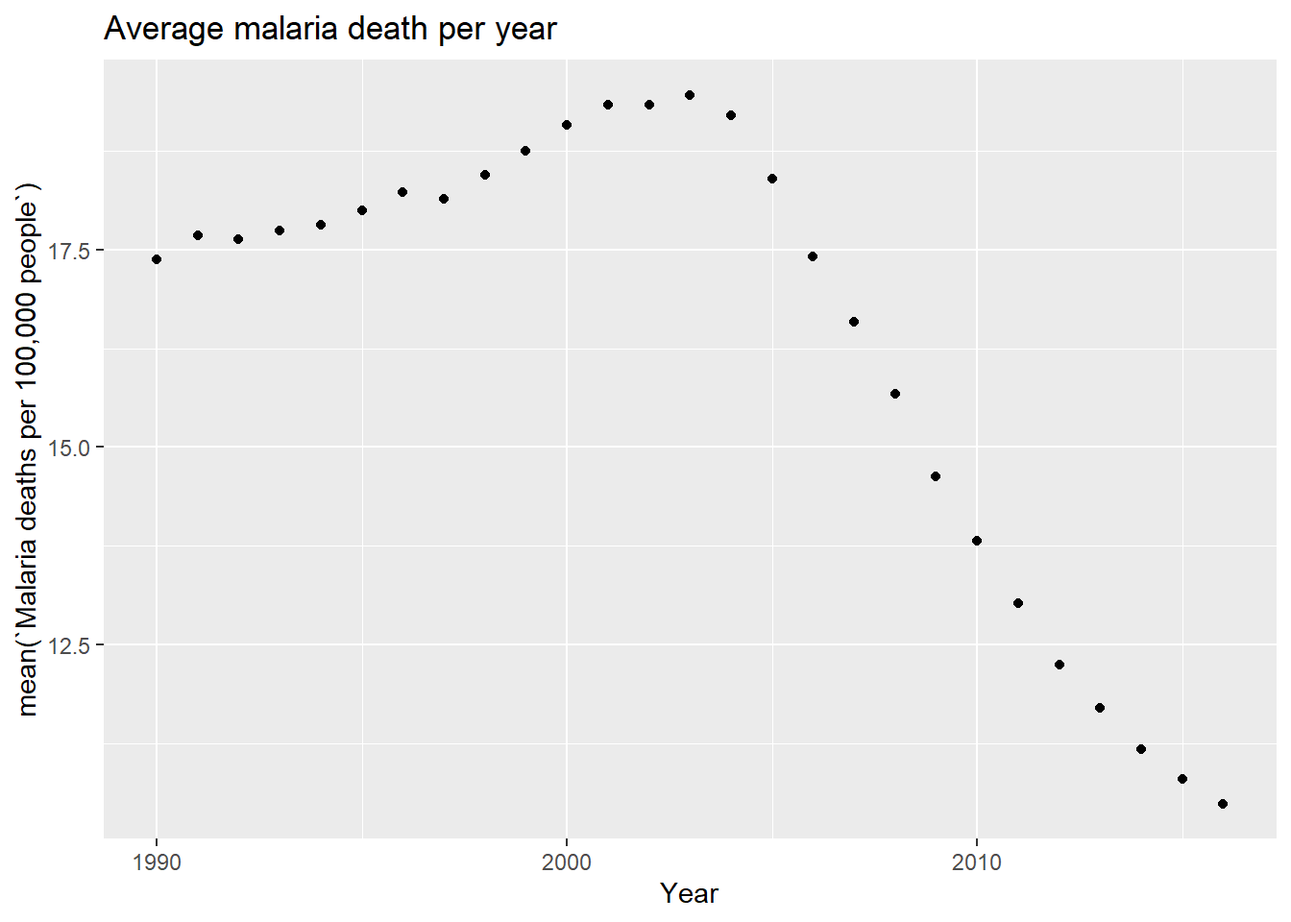
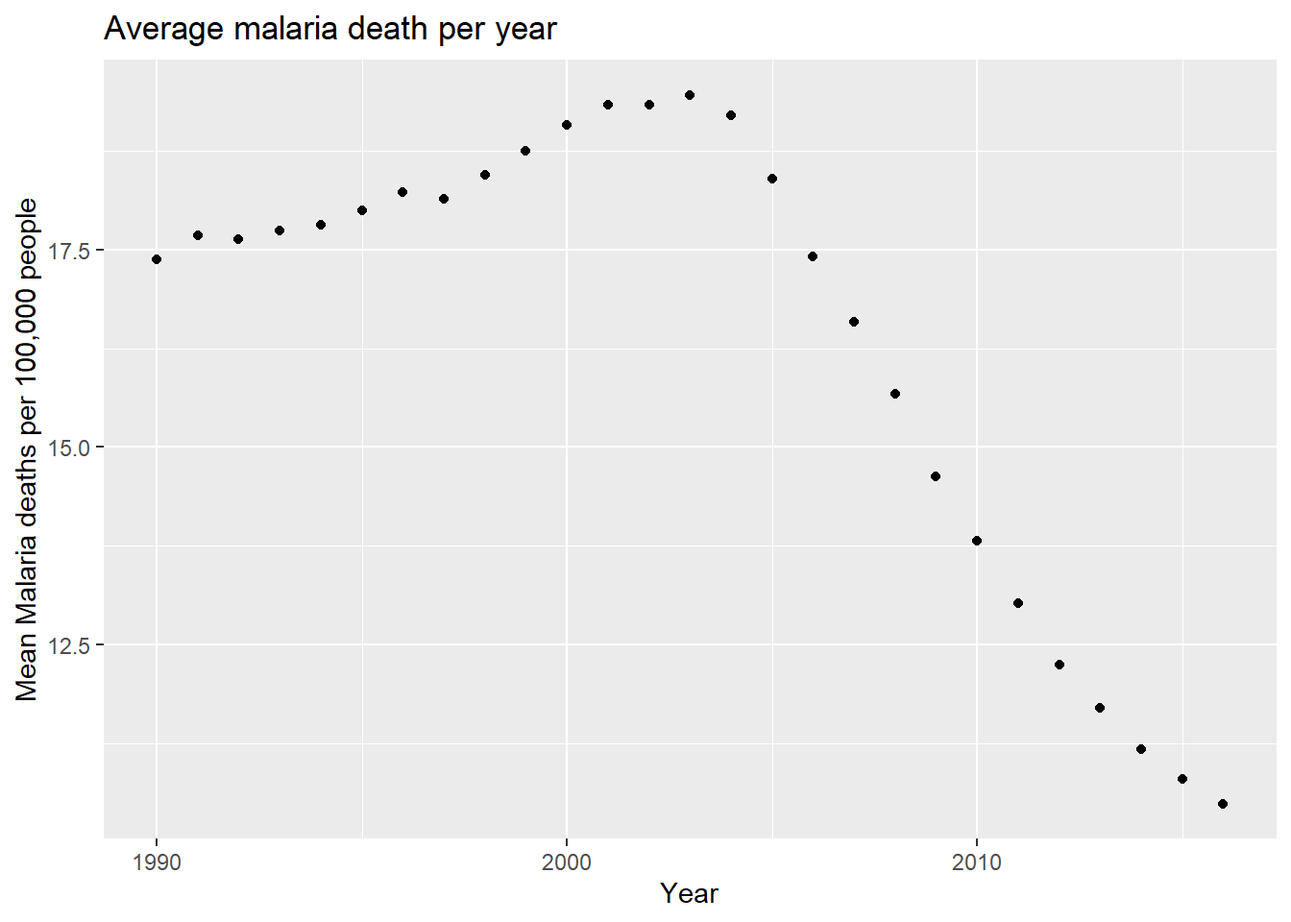
almost done draft. waiting on troubleshooting last lm().

Changed region(s): [[0.0, 0.1875, 0.0312, 0.7812]]

diff --git a/malaria comb data.html b/malaria comb data.html
@@ -161,27 +161,27 @@ dbl (2): Year, Value
 <span id="cb11-2"><a href="#cb11-2" aria-hidden="true" tabindex="-1"></a><span class="fu">colnames</span>(gdp)[<span class="dv">2</span>] <span class="ot">=</span> <span class="st">"Code"</span></span>
 <span id="cb11-3"><a href="#cb11-3" aria-hidden="true" tabindex="-1"></a><span class="fu">colnames</span>(gdp)[<span class="dv">4</span>] <span class="ot">=</span> <span class="st">"GDP"</span></span></code><button title="Copy to Clipboard" class="code-copy-button"><i class="bi"></i></button></pre></div>
 </div>
-<p>renamed colums to join properly with mix_mal</p>
+<p>renamed columns to join properly with mix_mal</p>
 <div class="cell">
 <div class="sourceCode cell-code" id="cb12"><pre class="sourceCode r code-with-copy"><code class="sourceCode r"><span id="cb12-1"><a href="#cb12-1" aria-hidden="true" tabindex="-1"></a>mal_gdp <span class="ot">&lt;-</span> mix_mal <span class="sc">%&gt;%</span> <span class="fu">left_join</span>(gdp)</span></code><button title="Copy to Clipboard" class="code-copy-button"><i class="bi"></i></button></pre></div>
 <div class="cell-output cell-output-stderr">
 <pre><code>Joining with `by = join_by(Entity, Code, Year)`</code></pre>
 </div>
 </div>
-<p>fully joined data set with case, deaths and gdp by country and year.</p>
+<p>fully joined data set with case, deaths and GDP by country and year.</p>
 <div class="cell">
 <div class="sourceCode cell-code" id="cb14"><pre class="sourceCode r code-with-copy"><code class="sourceCode r"><span id="cb14-1"><a href="#cb14-1" aria-hidden="true" tabindex="-1"></a><span class="fu">colnames</span>(mal_gdp)[<span class="dv">4</span>] <span class="ot">=</span><span class="st">"Malaria deaths per 100,000 people"</span></span>
 <span id="cb14-2"><a href="#cb14-2" aria-hidden="true" tabindex="-1"></a><span class="fu">colnames</span>(mal_gdp)[<span class="dv">5</span>] <span class="ot">=</span> <span class="st">"Malaria cases per 1,000 at risk people"</span></span></code><button title="Copy to Clipboard" class="code-copy-button"><i class="bi"></i></button></pre></div>
 </div>
 <section id="abstract" class="level2">
 <h2 class="anchored" data-anchor-id="abstract">Abstract</h2>
-<p>This project looks at Malaria rates in the context of countries, years and gross domestic product(GDP).</p>
+<p>This project looks at Malaria rates in the context of countries, years and gross domestic product (GDP). Malaria has been the cause of many deaths over human history and in the modern era it should be preventable. Through this data, conclusions about how GDP effects malaria deaths will be drawn.</p>
 </section>
 <section id="introduction" class="level2">
 <h2 class="anchored" data-anchor-id="introduction">Introduction</h2>
-<p>Malaria is a parasitic desease that is caused by members of the plasmodium genus. Plasmodium uses misquitos as an infection vector that passes to humans when the misquito feeds. Once it enter a human it will multiply in the liver before being released into the blood. When a new misquito bites an infected human it will become infected and the cycle will continue.</p>
-<p>Malaria can present as simple as a fever and headache all the way to confusion, seizures, and difficulty breathing. It is both preventable and curable. Most commonly found in tropical enviroment the WHO reports that 94% of cases are in the african region. Like most deseases children and the elderly are most vunerable to malaria.</p>
-<p>The data in this analysis comes from three sources. Both Malaria incedences and deaths comes from the Malaria Atlas Project(MAP). The MAP is an Oxford founded orginasation that works closly with the WHO to provide data analysis on Malaria. The Malaria deaths data set has a large number of contries over the period of about 25 years. The Malaria incedence data set has the same countries but only looks a handful of years. The final data set is GDPs from countries around the world as reported by the World Bank. The World Bank is a group of international orginizations that release a wide varity of economic data.</p>
+<p>Malaria is a parasitic disease that is caused by members of the plasmodium genus. Plasmodium uses mosquito as an infection vector that passes to humans when the mosquito feeds. Once it enters a human, it will multiply in the liver before being released into the blood. When a new mosquito bites an infected human, it will become infected and the cycle will continue.</p>
+<p>Malaria can present as simple as a fever and headache all the way to confusion, seizures, and difficulty breathing. It is both preventable and curable. Most commonly found in tropical environment, the WHO reports that 94% of cases are in the African region. Like most diseases, children and the elderly are most vulnerable to malaria.</p>
+<p>The data in this analysis comes from three sources. Both Malaria incidences and deaths comes from the Malaria Atlas Project(MAP). The MAP is an Oxford founded organization that works closely with the WHO to provide data analysis on Malaria. The Malaria deaths data set has a large number of countries over the period of about 25 years. The Malaria incidence data set has the same countries but only looks a handful of years. The final data set is GDPs from countries around the world as reported by the World Bank. The World Bank is a group of international organizations that release a wide variety of economic data.</p>
 </section>
 <section id="exploration" class="level2">
 <h2 class="anchored" data-anchor-id="exploration">Exploration</h2>
@@ -206,7 +206,7 @@ dbl (2): Year, Value
 ✖ dplyr::lag()      masks stats::lag()
 ✖ yardstick::spec() masks readr::spec()
 ✖ recipes::step()   masks stats::step()
-• Search for functions across packages at https://www.tidymodels.org/find/</code></pre>
+• Learn how to get started at https://www.tidymodels.org/start/</code></pre>
 </div>
 <div class="sourceCode cell-code" id="cb19"><pre class="sourceCode r code-with-copy"><code class="sourceCode r"><span id="cb19-1"><a href="#cb19-1" aria-hidden="true" tabindex="-1"></a>my_data_splits <span class="ot">&lt;-</span> <span class="fu">initial_split</span>(mal_gdp, <span class="at">prop =</span> <span class="fl">0.5</span>)</span>
 <span id="cb19-2"><a href="#cb19-2" aria-hidden="true" tabindex="-1"></a></span>
@@ -235,15 +235,15 @@ dbl (2): Year, Value
 </div>
 </div>
 </div>
-<p>This graph shows the average malaria deaths per year from the exploritory data. It apears that the peak for deaths is around 2002. The graph apears to be trending down however it is dificult to say for sure with just the graph.</p>
-<p>What is the relationship between gdp and malaria deaths?</p>
+<p>This graph shows the average malaria deaths per year from the exploratory data. It appears that the peak for deaths is around 2002. The graph appears to be trending down however it is difficult to say for sure with just the graph.</p>
+<p>What is the relationship between GDP and malaria deaths?</p>
 <div class="cell">
 <div class="sourceCode cell-code" id="cb21"><pre class="sourceCode r code-with-copy"><code class="sourceCode r"><span id="cb21-1"><a href="#cb21-1" aria-hidden="true" tabindex="-1"></a>exploratory_data<span class="sc">%&gt;%</span></span>
 <span id="cb21-2"><a href="#cb21-2" aria-hidden="true" tabindex="-1"></a>  <span class="fu">ggplot</span>()<span class="sc">+</span></span>
 <span id="cb21-3"><a href="#cb21-3" aria-hidden="true" tabindex="-1"></a>  <span class="fu">geom_point</span>(<span class="at">mapping =</span> <span class="fu">aes</span>(<span class="at">y=</span> <span class="st">`</span><span class="at">Malaria deaths per 100,000 people</span><span class="st">`</span>, <span class="at">x =</span> GDP))<span class="sc">+</span></span>
 <span id="cb21-4"><a href="#cb21-4" aria-hidden="true" tabindex="-1"></a>  <span class="fu">scale_x_log10</span>()</span></code><button title="Copy to Clipboard" class="code-copy-button"><i class="bi"></i></button></pre></div>
 <div class="cell-output cell-output-stderr">
-<pre><code>Warning: Removed 882 rows containing missing values or values outside the scale range
+<pre><code>Warning: Removed 900 rows containing missing values or values outside the scale range
 (`geom_point()`).</code></pre>
 </div>
 <div class="cell-output-display">
@@ -254,15 +254,15 @@ dbl (2): Year, Value
 </div>
 </div>
 </div>
-<p>This graph shows malaria deaths and GDP. The x axis is scaled by log10 in order to show any definition. While it is difficult to make any conclusions based on this graph it does show that after 1e+11 GDP the odds of malaria deaths decreses signifigantly.</p>
-<p>Does gdp impact the relation between deaths and cases?</p>
+<p>This graph shows malaria deaths and GDP. The x axis is scaled by log10 in order to show any definition. While it is difficult to make any conclusions based on this graph, it does show that after 1e+11 GDP the odds of malaria deaths decreases significantly.</p>
+<p>Does GDP impact the relation between deaths and cases?</p>
 <div class="cell">
 <div class="sourceCode cell-code" id="cb23"><pre class="sourceCode r code-with-copy"><code class="sourceCode r"><span id="cb23-1"><a href="#cb23-1" aria-hidden="true" tabindex="-1"></a>exploratory_data<span class="sc">%&gt;%</span></span>
 <span id="cb23-2"><a href="#cb23-2" aria-hidden="true" tabindex="-1"></a>  <span class="fu">ggplot</span>()<span class="sc">+</span></span>
 <span id="cb23-3"><a href="#cb23-3" aria-hidden="true" tabindex="-1"></a>  <span class="fu">geom_point</span>(<span class="at">mapping =</span> <span class="fu">aes</span>(<span class="at">x=</span> GDP, <span class="at">y=</span> <span class="st">`</span><span class="at">Malaria cases per 1,000 at risk people</span><span class="st">`</span>))<span class="sc">+</span></span>
 <span id="cb23-4"><a href="#cb23-4" aria-hidden="true" tabindex="-1"></a>  <span class="fu">scale_x_log10</span>()</span></code><button title="Copy to Clipboard" class="code-copy-button"><i class="bi"></i></button></pre></div>
 <div class="cell-output cell-output-stderr">
-<pre><code>Warning: Removed 2921 rows containing missing values or values outside the scale range
+<pre><code>Warning: Removed 2910 rows containing missing values or values outside the scale range
 (`geom_point()`).</code></pre>
 </div>
 <div class="cell-output-display">
@@ -273,7 +273,7 @@ dbl (2): Year, Value
 </div>
 </div>
 </div>
-<p>This one shows the graph of cases by gdp with the same scale as previously.</p>
+<p>This one shows the graph of cases by GDP with the same scale as previously described.</p>
 <div class="cell">
 <div class="sourceCode cell-code" id="cb25"><pre class="sourceCode r code-with-copy"><code class="sourceCode r"><span id="cb25-1"><a href="#cb25-1" aria-hidden="true" tabindex="-1"></a>exploratory_data<span class="sc">%&gt;%</span></span>
 <span id="cb25-2"><a href="#cb25-2" aria-hidden="true" tabindex="-1"></a>  <span class="fu">mutate</span>(<span class="at">death_scaled =</span> <span class="st">`</span><span class="at">Malaria deaths per 100,000 people</span><span class="st">`</span><span class="sc">*</span><span class="dv">100</span>) <span class="sc">%&gt;%</span></span>
@@ -283,11 +283,11 @@ dbl (2): Year, Value
 <span id="cb25-6"><a href="#cb25-6" aria-hidden="true" tabindex="-1"></a>  <span class="fu">geom_point</span>(<span class="at">mapping =</span> <span class="fu">aes</span>(<span class="at">x=</span> GDP, <span class="at">y=</span> <span class="st">`</span><span class="at">Malaria cases per 1,000 at risk people</span><span class="st">`</span>), <span class="at">color =</span> <span class="st">"red"</span>)<span class="sc">+</span></span>
 <span id="cb25-7"><a href="#cb25-7" aria-hidden="true" tabindex="-1"></a>  <span class="fu">scale_x_log10</span>()</span></code><button title="Copy to Clipboard" class="code-copy-button"><i class="bi"></i></button></pre></div>
 <div class="cell-output cell-output-stderr">
-<pre><code>Warning: Removed 882 rows containing missing values or values outside the scale range
+<pre><code>Warning: Removed 900 rows containing missing values or values outside the scale range
 (`geom_point()`).</code></pre>
 </div>
 <div class="cell-output cell-output-stderr">
-<pre><code>Warning: Removed 2921 rows containing missing values or values outside the scale range
+<pre><code>Warning: Removed 2910 rows containing missing values or values outside the scale range
 (`geom_point()`).</code></pre>
 </div>
 <div class="cell-output-display">
@@ -305,6 +305,7 @@ dbl (2): Year, Value
 <p>Cases and deaths of malaria will decrease on average over the years. Earlier years will have the most cases and deaths of malaria. As the GDP increases the deaths and cases will decrease. As GDP increases the deaths to cases ratio will decrease.</p>
 <section id="methodology" class="level3">
 <h3 class="anchored" data-anchor-id="methodology">Methodology</h3>
+<p>This section will take a more in depth look at the questions and hypotheses using the full data set. As most of these questions are about relations between variables, I will be using linear regressions in order to make conclusions about the relationships. This should be effective because most of the hypothesized questions should have a negative relation between variables seeing as we know that the threat of malaria has decreased over the years.</p>
 <p>How do malaria deaths change over time? What year had the highest death rate of malaria?</p>
 <div class="cell">
 <div class="sourceCode cell-code" id="cb28"><pre class="sourceCode r code-with-copy"><code class="sourceCode r"><span id="cb28-1"><a href="#cb28-1" aria-hidden="true" tabindex="-1"></a>death_mean <span class="ot">&lt;-</span> mal_gdp<span class="sc">%&gt;%</span></span>
@@ -316,7 +317,8 @@ dbl (2): Year, Value
 <span id="cb28-7"><a href="#cb28-7" aria-hidden="true" tabindex="-1"></a>death_mean<span class="sc">%&gt;%</span></span>
 <span id="cb28-8"><a href="#cb28-8" aria-hidden="true" tabindex="-1"></a>  <span class="fu">ggplot</span>()<span class="sc">+</span></span>
 <span id="cb28-9"><a href="#cb28-9" aria-hidden="true" tabindex="-1"></a>  <span class="fu">geom_point</span>(<span class="at">mapping =</span> <span class="fu">aes</span>(<span class="at">x=</span> Year, <span class="at">y =</span> <span class="st">`</span><span class="at">mean(\</span><span class="st">`</span>Malaria deaths per <span class="dv">100</span>,<span class="dv">000</span> people\<span class="st">`</span><span class="at">)</span><span class="st">`</span>))<span class="sc">+</span></span>
-<span id="cb28-10"><a href="#cb28-10" aria-hidden="true" tabindex="-1"></a>  <span class="fu">labs</span>(<span class="at">title =</span> <span class="st">"Average malaria death per year"</span>)</span></code><button title="Copy to Clipboard" class="code-copy-button"><i class="bi"></i></button></pre></div>
+<span id="cb28-10"><a href="#cb28-10" aria-hidden="true" tabindex="-1"></a>  <span class="fu">labs</span>(<span class="at">title =</span> <span class="st">"Average malaria death per year"</span>)<span class="sc">+</span></span>
+<span id="cb28-11"><a href="#cb28-11" aria-hidden="true" tabindex="-1"></a>  <span class="fu">ylab</span>(<span class="st">"Mean Malaria deaths per 100,000 people"</span>)</span></code><button title="Copy to Clipboard" class="code-copy-button"><i class="bi"></i></button></pre></div>
 <div class="cell-output-display">
 <div>
 <figure class="figure">
@@ -325,16 +327,25 @@ dbl (2): Year, Value
 </div>
 </div>
 </div>
-<p>This graph show the average malaria deaths world wide per year. It shows a very clear trend of decreaseing around 2003. Acording to (Cibulskis et al) this roughly coincides to a global increase in anti malaria funding. This funding resulted in pestices and treatments being used in areas with high malaria rates that could not afford previously. The WHO was at the fore front of this effort and contitue their work to this day.</p>
-<p>What is the relationship between gdp and malaria deaths?</p>
+<p>This graph shows the average malaria deaths world wide per year. It shows a very clear trend of decreasing beginning around 2003. According to Cibulskis et al, this roughly coincides to a global increase in anti malaria funding. This funding resulted in pesticides and treatments being used in areas with high malaria rates that could not afford previously. The WHO was at the fore front of this effort and continue their work to this day. It also shows that malaria deaths were on the rise until 2003 which is contrary to what I would expect.</p>
+<p>What is the relationship between GDP and malaria deaths?</p>
 <div class="cell">
 <div class="sourceCode cell-code" id="cb29"><pre class="sourceCode r code-with-copy"><code class="sourceCode r"><span id="cb29-1"><a href="#cb29-1" aria-hidden="true" tabindex="-1"></a>mal_gdp<span class="sc">%&gt;%</span></span>
-<span id="cb29-2"><a href="#cb29-2" aria-hidden="true" tabindex="-1"></a>  <span class="fu">filter</span>(<span class="st">`</span><span class="at">Malaria deaths per 100,000 people</span><span class="st">`</span> <span class="sc">&gt;</span> <span class="dv">1</span>) <span class="sc">%&gt;%</span></span>
+<span id="cb29-2"><a href="#cb29-2" aria-hidden="true" tabindex="-1"></a> <span class="co"># filter(`Malaria deaths per 100,000 people` &gt; 1) %&gt;%</span></span>
 <span id="cb29-3"><a href="#cb29-3" aria-hidden="true" tabindex="-1"></a>  <span class="fu">ggplot</span>()<span class="sc">+</span></span>
 <span id="cb29-4"><a href="#cb29-4" aria-hidden="true" tabindex="-1"></a>  <span class="fu">geom_point</span>(<span class="at">mapping =</span> <span class="fu">aes</span>(<span class="at">y=</span> <span class="st">`</span><span class="at">Malaria deaths per 100,000 people</span><span class="st">`</span>, <span class="at">x =</span> GDP))<span class="sc">+</span></span>
-<span id="cb29-5"><a href="#cb29-5" aria-hidden="true" tabindex="-1"></a>  <span class="fu">scale_x_log10</span>()</span></code><button title="Copy to Clipboard" class="code-copy-button"><i class="bi"></i></button></pre></div>
+<span id="cb29-5"><a href="#cb29-5" aria-hidden="true" tabindex="-1"></a>  <span class="fu">scale_x_log10</span>()<span class="sc">+</span></span>
+<span id="cb29-6"><a href="#cb29-6" aria-hidden="true" tabindex="-1"></a>  <span class="fu">geom_smooth</span>(<span class="at">mapping =</span> <span class="fu">aes</span>(<span class="at">y=</span> <span class="st">`</span><span class="at">Malaria deaths per 100,000 people</span><span class="st">`</span>, <span class="at">x =</span> GDP), <span class="at">method =</span> <span class="st">"lm"</span>, <span class="at">col =</span> <span class="st">"red"</span>)<span class="sc">+</span></span>
+<span id="cb29-7"><a href="#cb29-7" aria-hidden="true" tabindex="-1"></a>  <span class="fu">labs</span>(<span class="at">title =</span> <span class="st">"Malaria deaths and GDP"</span>)</span></code><button title="Copy to Clipboard" class="code-copy-button"><i class="bi"></i></button></pre></div>
 <div class="cell-output cell-output-stderr">
-<pre><code>Warning: Removed 461 rows containing missing values or values outside the scale range
+<pre><code>`geom_smooth()` using formula = 'y ~ x'</code></pre>
+</div>
+<div class="cell-output cell-output-stderr">
+<pre><code>Warning: Removed 1776 rows containing non-finite outside the scale range
+(`stat_smooth()`).</code></pre>
+</div>
+<div class="cell-output cell-output-stderr">
+<pre><code>Warning: Removed 1776 rows containing missing values or values outside the scale range
 (`geom_point()`).</code></pre>
 </div>
 <div class="cell-output-display">
@@ -344,8 +355,8 @@ dbl (2): Year, Value
 </figure>
 </div>
 </div>
-<div class="sourceCode cell-code" id="cb31"><pre class="sourceCode r code-with-copy"><code class="sourceCode r"><span id="cb31-1"><a href="#cb31-1" aria-hidden="true" tabindex="-1"></a>mal_lm <span class="ot">&lt;-</span> <span class="fu">lm</span>(<span class="st">`</span><span class="at">Malaria deaths per 100,000 people</span><span class="st">`</span><span class="sc">~</span>GDP, mal_gdp )</span>
-<span id="cb31-2"><a href="#cb31-2" aria-hidden="true" tabindex="-1"></a><span class="fu">summary</span>(mal_lm)</span></code><button title="Copy to Clipboard" class="code-copy-button"><i class="bi"></i></button></pre></div>
+<div class="sourceCode cell-code" id="cb33"><pre class="sourceCode r code-with-copy"><code class="sourceCode r"><span id="cb33-1"><a href="#cb33-1" aria-hidden="true" tabindex="-1"></a>mal_lm <span class="ot">&lt;-</span> <span class="fu">lm</span>(<span class="st">`</span><span class="at">Malaria deaths per 100,000 people</span><span class="st">`</span><span class="sc">~</span>GDP, mal_gdp )</span>
+<span id="cb33-2"><a href="#cb33-2" aria-hidden="true" tabindex="-1"></a><span class="fu">summary</span>(mal_lm)</span></code><button title="Copy to Clipboard" class="code-copy-button"><i class="bi"></i></button></pre></div>
 <div class="cell-output cell-output-stdout">
 <pre><code>
 Call:
@@ -368,7 +379,52 @@ Multiple R-squared:  0.008672,  Adjusted R-squared:  0.008446
 F-statistic:  38.3 on 1 and 4378 DF,  p-value: 6.625e-10</code></pre>
 </div>
 </div>
-<p>This graph shows malaria deaths and GDP. The x axis is scaled by log10 in order to show any definition. Countries that have less than 100,000 are filtered out for clarity. This graph does not show much of a corilation between deaths and GDP. This lack of connection hopefuly means that access to the recources required to prevent malaria deaths is not based on a countries wealth.</p>
+<p>This graph shows malaria deaths and GDP. The x axis is scaled by log10 in order to show any definition. This graph does not show much of a correlation between deaths and GDP. Attempting to run a linear regression generates an R squared value of .0084 which means that the best fit line is not a good fit. This lack of connection hopefully means that access to the resources required to prevent malaria deaths is not based on a country’s wealth. I believe that this might show more clear data if the scope was narrowed down. As it stands currently there are many countries that are not effected by malaria(ex Canada) that are shifting the average towards zero. If we looked at only countries that are at risk of malaria, it might show a stronger trend.</p>
+<p>Does GDP impact the relation between deaths and cases?</p>
+<div class="cell">
+<div class="sourceCode cell-code" id="cb35"><pre class="sourceCode r code-with-copy"><code class="sourceCode r"><span id="cb35-1"><a href="#cb35-1" aria-hidden="true" tabindex="-1"></a>mal_gdp<span class="sc">%&gt;%</span></span>
+<span id="cb35-2"><a href="#cb35-2" aria-hidden="true" tabindex="-1"></a>  <span class="fu">mutate</span>(<span class="at">ratio =</span> (<span class="st">`</span><span class="at">Malaria deaths per 100,000 people</span><span class="st">`</span><span class="sc">*</span><span class="dv">100</span>)<span class="sc">/</span><span class="st">`</span><span class="at">Malaria cases per 1,000 at risk people</span><span class="st">`</span>) <span class="sc">%&gt;%</span></span>
+<span id="cb35-3"><a href="#cb35-3" aria-hidden="true" tabindex="-1"></a>  <span class="co">#scales deaths to cases and then makes a ratio of the two</span></span>
+<span id="cb35-4"><a href="#cb35-4" aria-hidden="true" tabindex="-1"></a>  <span class="fu">ggplot</span>()<span class="sc">+</span></span>
+<span id="cb35-5"><a href="#cb35-5" aria-hidden="true" tabindex="-1"></a>  <span class="fu">geom_point</span>(<span class="at">mapping =</span> <span class="fu">aes</span>(<span class="at">x=</span> GDP, <span class="at">y =</span> ratio))<span class="sc">+</span></span>
+<span id="cb35-6"><a href="#cb35-6" aria-hidden="true" tabindex="-1"></a>  <span class="fu">scale_x_log10</span>()<span class="sc">+</span></span>
+<span id="cb35-7"><a href="#cb35-7" aria-hidden="true" tabindex="-1"></a>  <span class="fu">scale_y_log10</span>()<span class="sc">+</span></span>
+<span id="cb35-8"><a href="#cb35-8" aria-hidden="true" tabindex="-1"></a>  <span class="fu">geom_smooth</span>(<span class="at">mapping =</span> <span class="fu">aes</span>(<span class="at">y=</span> ratio, <span class="at">x =</span> GDP), <span class="at">method =</span> <span class="st">"lm"</span>, <span class="at">col =</span> <span class="st">"red"</span>) <span class="sc">+</span></span>
+<span id="cb35-9"><a href="#cb35-9" aria-hidden="true" tabindex="-1"></a>  <span class="fu">labs</span>(<span class="at">title =</span> <span class="st">"Ratio of malaria deaths to cases by country GDP"</span>)<span class="sc">+</span></span>
+<span id="cb35-10"><a href="#cb35-10" aria-hidden="true" tabindex="-1"></a>  <span class="fu">ylab</span>(<span class="st">"Malaria deaths/malaria cases"</span>)</span></code><button title="Copy to Clipboard" class="code-copy-button"><i class="bi"></i></button></pre></div>
+<div class="cell-output cell-output-stderr">
+<pre><code>`geom_smooth()` using formula = 'y ~ x'</code></pre>
+</div>
+<div class="cell-output cell-output-stderr">
+<pre><code>Warning: Removed 5834 rows containing non-finite outside the scale range
+(`stat_smooth()`).</code></pre>
+</div>
+<div class="cell-output cell-output-stderr">
+<pre><code>Warning: Removed 5827 rows containing missing values or values outside the scale range
+(`geom_point()`).</code></pre>
+</div>
+<div class="cell-output-display">
+<div>
+<figure class="figure">
+<p><img src="malaria-comb-data_files/figure-html/unnamed-chunk-15-1.png" class="img-fluid figure-img" width="672"></p>
+</figure>
+</div>
+</div>
+<div class="sourceCode cell-code" id="cb39"><pre class="sourceCode r code-with-copy"><code class="sourceCode r"><span id="cb39-1"><a href="#cb39-1" aria-hidden="true" tabindex="-1"></a><span class="co">#mal_gdp %&gt;%</span></span>
+<span id="cb39-2"><a href="#cb39-2" aria-hidden="true" tabindex="-1"></a> <span class="co"># mutate(ratio = (`Malaria deaths per 100,000 people`*100)/`Malaria cases per 1,000 at risk people`) %&gt;%</span></span>
+<span id="cb39-3"><a href="#cb39-3" aria-hidden="true" tabindex="-1"></a>  <span class="co">#scales deaths to cases and then makes a ratio of the two</span></span>
+<span id="cb39-4"><a href="#cb39-4" aria-hidden="true" tabindex="-1"></a>  <span class="co">#filter(ratio &gt; 0) %&gt;%</span></span>
+<span id="cb39-5"><a href="#cb39-5" aria-hidden="true" tabindex="-1"></a>  <span class="co">#attempt to get rid of NA values</span></span>
+<span id="cb39-6"><a href="#cb39-6" aria-hidden="true" tabindex="-1"></a>  <span class="co">#lm(ratio ~ GDP, data = . ) %&gt;%</span></span>
+<span id="cb39-7"><a href="#cb39-7" aria-hidden="true" tabindex="-1"></a>  <span class="co">#summary()</span></span></code><button title="Copy to Clipboard" class="code-copy-button"><i class="bi"></i></button></pre></div>
+</div>
+<p>Unfortunately this graph shows a limitation of the data sets used. It is graphing the ratio of malaria deaths/malaria cases over the GDP. In theory, the number of deaths from malaria in a country should never be able to exceed the number of case but this graph shows that most points are much higher than 1. It is my belief that this problem arises from the fact that the cases are measured by “1000 at risk people” while deaths is looking at total deaths. Even with these limitations, a linear regression shows very little correlation between the ratio and GDP. In order to show definition, both the x and y axis have been scaled by log10.</p>
+</section>
+<section id="conclusion" class="level3">
+<h3 class="anchored" data-anchor-id="conclusion">Conclusion</h3>
+<p>This report looks at Malaria deaths, cases and GDP across many different counties and years. It attempts to find a correlation between these factors using graphing and linear regressions. It looked at changes in malaria deaths over time, the relationship between GDP and deaths, and the correlation of deaths cases and GDP. While it was possible to show that Malaria deaths have decreased in recent years, it was not possible to show strong relations for either of the other topics. This is due in part to having a very diverse data set that includes many countries that are less impacted by malaria. It was also hindered by the malaria cases data set that had fewer data points than the other two data sets as well as not matching the scale of the malaria deaths data.</p>
+<p>Future studies will want to look at a more complete record of cases. They might also want to narrow the scope to the African region as it is the most impacted by malaria and hopefully shows stronger negative trends. This data set also ends in 2016, so it might be interesting to see what has changed in the past 9 years.</p>
+<p>As this data was part of a data challenge, it did not have any sort of record of how the data was acquired which I would have liked to know in order to contextualize the data.</p>
 </section>
 </section>
 
